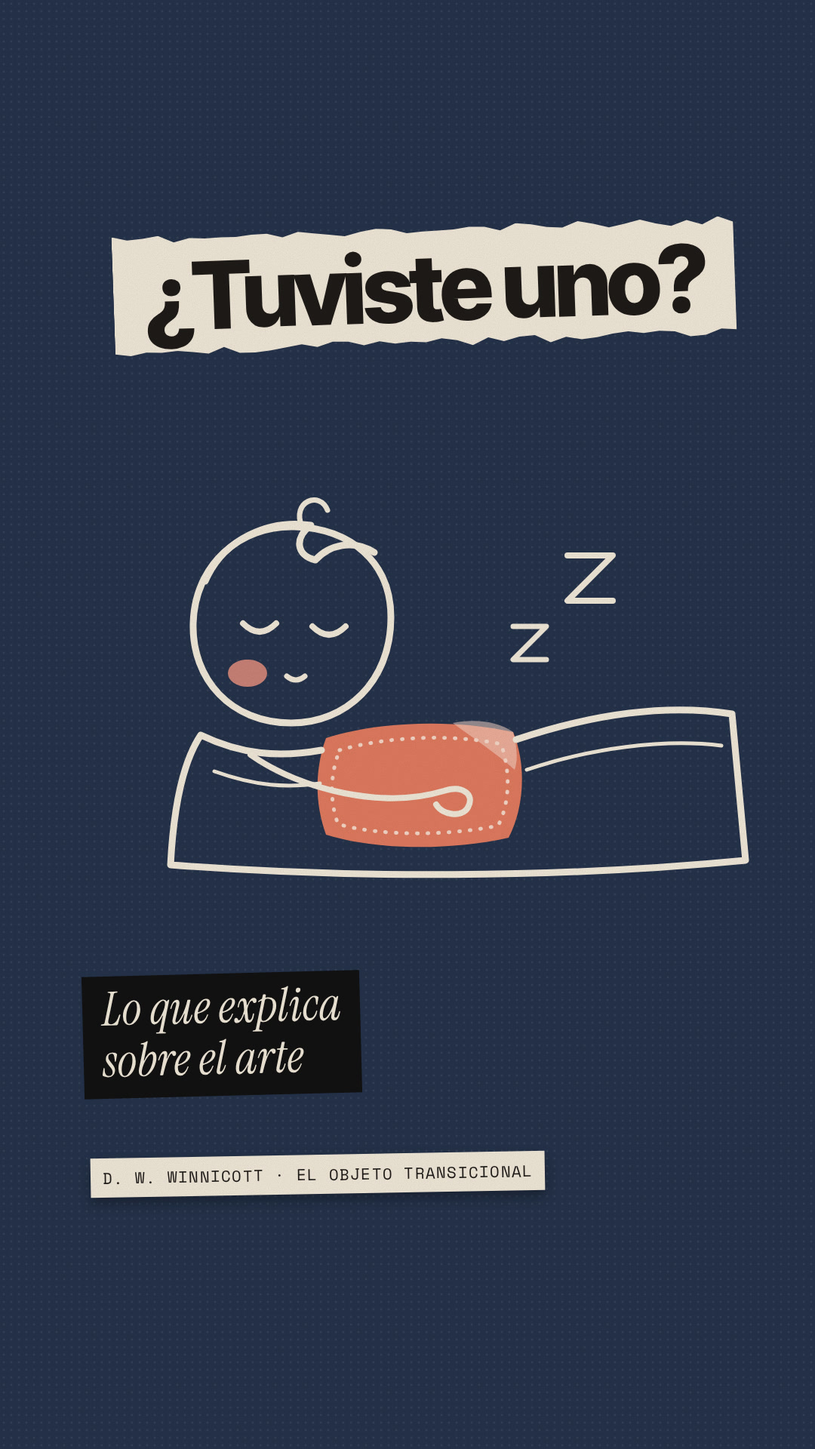
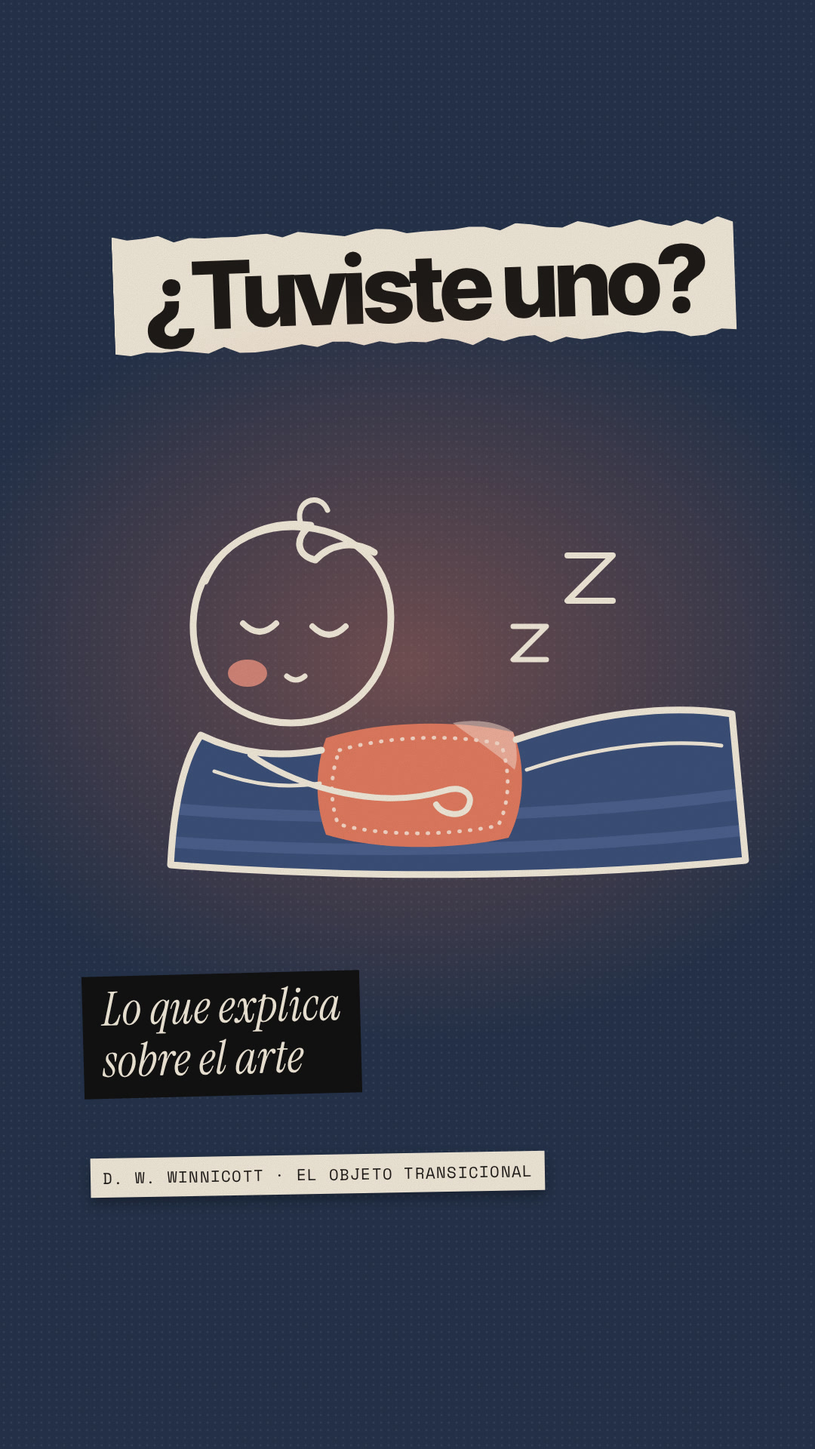
05: más llenas las escenas de línea (quietud: 0 vacíos), portada y storyboard
- La luz de un velador detrás del nene, frazada a rayas, fondo de guinga en el tramo de
  Cassatt, medallones con las caras, adentro dibujado y afuera filmado, cómoda de madera.
- MP4 final: 86,3 s, 29,2 MB (2,55 Mbps); cotejar y quietud sin observaciones.

Claude-Session: https://claude.ai/code/session_014ALApHG8hUWvBvb5xsLDbW

Changed region(s): [[0.0917, 0.2812, 0.9167, 0.6562]]

diff --git a/videos/05-trapito/video.html b/videos/05-trapito/video.html
@@ -18,6 +18,8 @@
     --trapo2: #F6D7C8;
     --fondo: var(--noche);
     --hueco: var(--tinta);
+    --manta: #3B4F78;   /* la frazada del dibujo, un azul más claro que el fondo */
+    --manta2: #4A5F8C;
   }
   html, body { margin: 0; background: #000; }
   #video { background: var(--noche); }
@@ -29,7 +31,9 @@
   .capa { inset: 0; width: 1080px; height: 1920px; overflow: visible; pointer-events: none; }
   .sub { left: 80px; right: 150px; top: 1460px; font-weight: 600; font-size: 36px; line-height: 1.5; color: var(--crema); z-index: 40; }
   .sub span { background: rgba(20,18,16,.88); padding: 3px 12px; -webkit-box-decoration-break: clone; box-decoration-break: clone; }
-  .papel { --linea: var(--tinta); --fondo: var(--crema); --trapo2: #F6D7C8; }
+  .papel { --linea: var(--tinta); --fondo: var(--crema); --trapo2: #F6D7C8; --manta: #CBD5DE; --manta2: #B7C4D0; --madera: #DCC9A6; }
+  .medallon { border-radius: 50%; background-repeat: no-repeat; }
+  #e5 .rotulo { paint-order: stroke; stroke: var(--tinta); stroke-width: 10px; stroke-linejoin: round; }
   .etiqueta { font-family: 'Instrument Serif', serif; font-style: italic; font-size: 54px; line-height: 1; color: var(--crema);
     background: var(--tinta); padding: 8px 20px 14px; white-space: nowrap; }
   .cinta { left: -120px; width: 1320px; overflow: hidden; white-space: nowrap; background: var(--crema); color: var(--tinta);
@@ -48,6 +52,7 @@
 
   <!-- 1 y 2 · GANCHO Y PROMESA: el nene dormido se dibuja solo; después se achica y del trapito sale un hilo hasta un cuadro -->
   <div class="escena" id="e1">
+    <div id="velador" style="left:-100px;top:300px;width:1280px;height:1000px;background:radial-gradient(closest-side, rgba(224,122,95,.42), rgba(224,122,95,0))"></div>
     <svg id="nene1" viewBox="0 0 1000 760" style="left:40px;top:420px;width:1000px;height:760px;overflow:visible"></svg>
     <div class="tira titular" id="tuviste" data-rasgado data-rot="-2" style="top:300px;left:170px;font-size:118px;white-space:nowrap">¿Tuviste uno?</div>
     <div class="lamina" id="lamK1" data-rot="2" style="top:300px;left:560px;width:430px;height:570px"><div class="plate" id="pK1"></div></div>
@@ -75,9 +80,10 @@
 
   <!-- 4 · PARA QUÉ SIRVE: Cassatt; el bebé y la mamá, dos círculos que se separan; el trapito en el medio -->
   <div class="escena" id="e4">
-    <div class="fondo" style="background:var(--salvia)"><div class="puntos" style="position:absolute;inset:0"></div></div>
-    <div class="lamina" id="lamCas" data-rot="-1" style="top:330px;left:60px;width:960px;height:780px"><div class="plate" id="pCas"></div></div>
+    <div class="fondo" style="background-color:var(--salvia);background-image:repeating-linear-gradient(90deg, rgba(40,70,45,.2) 0 44px, transparent 44px 132px), repeating-linear-gradient(0deg, rgba(40,70,45,.2) 0 44px, transparent 44px 132px)"></div>
+    <div class="lamina" id="lamCas" data-rot="0" style="top:330px;left:60px;width:960px;height:780px"><div class="plate" id="pCas"></div></div>
     <div class="ficha" id="fCas" data-rot="1" style="top:1135px;left:90px;font-size:18px">Mary Cassatt · Desayuno en la cama, 1897</div>
+    <div class="medallon" id="medB"></div><div class="medallon" id="medM"></div>
     <svg class="capa" id="capa4" viewBox="0 0 1080 1920" stroke-linecap="round">
       <g id="aros4" fill="none">
         <circle id="cB" class="circulo"/><circle id="cM" class="circulo"/>
@@ -87,18 +93,21 @@
       <path id="hM" fill="none" stroke="var(--coral)" stroke-width="7"/>
       <text id="tB" class="rotulo">bebé</text><text id="tM" class="rotulo">mamá</text>
     </svg>
-    <div id="trapo4c" style="left:450px;top:808px;width:160px;height:148px"><svg id="trapo4" viewBox="0 0 260 240" style="width:160px;height:148px;overflow:visible"></svg></div>
-    <div class="etiqueta" id="suyo" data-rot="-2" style="top:1030px;left:70px">suyo, sin ser él</div>
-    <div class="etiqueta" id="conElla" data-rot="2" style="top:1115px;left:440px">con ella, sin ser ella</div>
-    <div class="tira titular" id="objTr" data-rasgado data-rot="-2" style="top:1220px;left:80px;font-size:94px;white-space:nowrap">objeto transicional</div>
-    <div class="ficha" id="fObj" data-rot="1" style="top:1370px;left:430px;font-size:18px">Winnicott, «Objetos transicionales<br>y fenómenos transicionales», 1951</div>
+    <div id="trapo4c" style="left:433px;top:736px;width:160px;height:148px"><svg id="trapo4" viewBox="0 0 260 240" style="width:160px;height:148px;overflow:visible"></svg></div>
+    <div class="etiqueta" id="suyo" data-rot="-2" style="top:790px;left:60px">suyo, sin ser él</div>
+    <div class="etiqueta" id="conElla" data-rot="2" style="top:650px;left:470px">con ella, sin ser ella</div>
+    <div class="tira titular" id="objTr" data-rasgado data-rot="-2" style="top:1255px;left:70px;font-size:94px;white-space:nowrap">objeto transicional</div>
+    <div class="ficha" id="fObj" data-rot="1" style="top:1150px;left:70px;font-size:18px">Winnicott, «Objetos transicionales<br>y fenómenos transicionales», 1951</div>
   </div>
 
   <!-- 5 · LA TAREA QUE NUNCA TERMINA: adentro y afuera tiran; el hilo vibra; aparece un lugar donde descansar -->
   <div class="escena" id="e5">
     <div class="fondo" style="background:var(--noche)"><div class="puntos" style="position:absolute;inset:0"></div></div>
+    <svg class="capa" id="capa5b" viewBox="0 0 1080 1920"><ellipse id="zona" fill="var(--coral)" opacity=".9"/>
+    </svg>
+    <div class="medallon papel" id="discoA" style="overflow:hidden;background:var(--crema)"><svg id="nene5" viewBox="0 0 1000 760" style="position:absolute;overflow:visible"></svg></div>
+    <div class="medallon" id="discoF" style="overflow:hidden"><canvas id="cine5" width="400" height="400" style="width:100%;height:100%"></canvas></div>
     <svg class="capa" id="capa5" viewBox="0 0 1080 1920" stroke-linecap="round">
-      <ellipse id="zona" fill="var(--coral)" opacity=".9"/>
       <circle id="cA" class="circulo"/><circle id="cF" class="circulo"/>
       <text id="tA" class="rotulo">adentro</text><text id="tF" class="rotulo">afuera</text>
       <path id="hA" fill="none" stroke="var(--coral)" stroke-width="7"/>
@@ -106,7 +115,7 @@
       <path id="brazoI" fill="none" stroke="var(--crema)" stroke-width="9"/>
       <path id="brazoD" fill="none" stroke="var(--crema)" stroke-width="9"/>
     </svg>
-    <svg id="pie" viewBox="0 0 400 600" style="left:340px;top:640px;width:400px;height:600px;overflow:visible"></svg>
+    <svg id="pie" viewBox="0 0 400 600" style="left:340px;top:800px;width:400px;height:600px;overflow:visible"></svg>
     <div class="cinta" id="cinta5" data-rot="-4" style="top:300px"><span></span></div>
     <div class="ficha" id="fAcept" data-rot="-1" style="top:450px;left:70px;font-size:26px">Aceptar la realidad es</div>
   </div>
@@ -114,9 +123,9 @@
   <!-- 6 · DE BEBÉS, EL TRAPITO; EL CAJÓN; SE EXTIENDE: JUEGO Y CULTURA -->
   <div class="escena papel" id="e6">
     <div class="fondo" style="background:var(--crema)"><div class="puntos" style="position:absolute;inset:0;background-image:radial-gradient(rgba(0,0,0,.06) 1.3px, transparent 1.7px)"></div></div>
-    <svg id="nene6" viewBox="0 0 1000 760" style="left:140px;top:300px;width:800px;height:608px;overflow:visible"></svg>
+    <svg id="nene6" viewBox="0 0 1000 760" style="left:40px;top:220px;width:1000px;height:760px;overflow:visible"></svg>
     <svg id="comoda" viewBox="0 0 600 600" style="left:240px;top:820px;width:600px;height:600px;overflow:visible"></svg>
-    <div id="vuelo" style="inset:0"><svg id="trapo6" viewBox="0 0 1000 760" style="position:absolute;left:140px;top:300px;width:800px;height:608px;overflow:visible"></svg></div>
+    <div id="vuelo" style="inset:0"><svg id="trapo6" viewBox="0 0 1000 760" style="position:absolute;left:40px;top:220px;width:1000px;height:760px;overflow:visible"></svg></div>
     <div id="zona6" style="inset:0;background:var(--coral)"></div>
     <div class="plate" id="pJue" style="inset:0"></div>
     <div class="lamina" id="lamN" data-rot="-3" style="top:280px;left:40px;width:440px;height:270px"><div class="plate" data-img="nighthawks" data-crop="0,0,3840,2095"></div></div>
@@ -146,7 +155,8 @@
   <!-- 8 · CIERRE: de grande, la misma pose; la canción; la cinta se frena -->
   <div class="escena" id="e8">
     <div class="fondo" style="background:var(--noche)"><div class="puntos" style="position:absolute;inset:0"></div></div>
-    <div id="brillo" style="left:-60px;top:560px;width:1000px;height:700px;background:radial-gradient(closest-side, rgba(224,122,95,.55), rgba(224,122,95,0))"></div>
+    <div id="velador8" style="left:-100px;top:300px;width:1280px;height:1000px;background:radial-gradient(closest-side, rgba(224,122,95,.42), rgba(224,122,95,0))"></div>
+    <div id="brillo" style="left:-60px;top:560px;width:1000px;height:700px;background:radial-gradient(closest-side, rgba(224,122,95,.45), rgba(224,122,95,0))"></div>
     <svg id="trapo8" viewBox="0 0 1000 760" style="left:40px;top:420px;width:1000px;height:760px;overflow:visible"></svg>
     <svg id="grande" viewBox="0 0 1000 760" style="left:40px;top:420px;width:1000px;height:760px;overflow:visible"></svg>
     <svg class="capa" id="notas" viewBox="0 0 1080 1920" fill="var(--coral)"></svg>
@@ -177,6 +187,8 @@ const IMGS = {
 const CUADROS = Array.from({ length: 132 }, (_, i) => { const im = new Image(); im.src = `assets/repas/${String(i + 1).padStart(3, '0')}.jpg`; return im; });
 // Encuadres (px del original). Los "a sangre" tienen la proporción de la pantalla (0,5625).
 const KH = { mujer1: [780, 330, 440, 587], piano: [0, 0, 700, 1244], mujer: [620, 0, 700, 1244], cerca: [640, 60, 660, 1173] };
+// Las caras de Desayuno en la cama (px del original de 1280)
+const CARA = { bebe: [493, 213], mama: [753, 307] };
 const JU = { centro: [1500, 700, 1100, 1100], mas: [1100, 500, 1700, 1700] };
 
 const $ = id => document.getElementById(id);
@@ -249,6 +261,10 @@ function seek(tReal) {
     n.style.transformOrigin = '515px 540px';
     n.style.transform = `translate(${lerp(0, -255, pe)}px, ${lerp(0, 230, pe)}px) scale(${lerp(1, 0.6, pe) * resp})`;
     n.style.opacity = 1 - prog(t, T.e3, T.e3 + 0.5);
+    // el velador acompaña al nene (mismo punto fijo: el trapito, en 555, 960 de la pantalla)
+    $('velador').style.transformOrigin = '655px 660px';
+    $('velador').style.transform = n.style.transform;
+    $('velador').style.opacity = n.style.opacity;
     pieza($('tuviste'), t, { t0: T.dormir - 0.05, t1: T.e2 + 0.2, sale: 'fundido' });
     // la etiqueta de museo cuelga del trapito: se lo tomó en serio
     const [qx, qy] = vbA(n, 600, 600);
@@ -261,7 +277,7 @@ function seek(tReal) {
     hilo($('hilo1'), [ax, ay], [596, 862], { comba: 70, p: ease.inOut(prog(t, T.penso + 0.3, T.arte + 0.1)), amp: 4 * prog(t, T.arte, T.arte + 0.3), t });
     $('hilo1').style.opacity = 1 - prog(t, T.e3, T.e3 + 0.4);
     encuadre($('pK1'), IMGS.khnopff, KH.mujer1);
-    pieza($('lamK1'), t, { t0: T.necesitamos - 0.1, dur: 0.5, t1: T.e3, sale: 'fundido' });
+    pieza($('lamK1'), t, { t0: T.penso, dur: 0.5, t1: T.e3, sale: 'fundido' });
   }
 
   t = tReal;
@@ -288,31 +304,45 @@ function seek(tReal) {
     // la escena sube como una frazada que se tiende
     const pe = ease.inOut(prog(t, T.e4, T.e4 + 0.7));
     $('e4').style.clipPath = pe >= 1 ? 'none' : `inset(${lerp(100, 0, pe)}% 0 0 0)`;
-    encuadre($('pCas'), IMGS.cassatt, entreEncuadres([0, 0, 1280, 1017], [120, 0, 1100, 874], ease.suave(prog(t, T.e4, T.descubre))));
+    const cCas = entreEncuadres([0, 0, 1280, 1017], [120, 0, 1100, 874], ease.suave(prog(t, T.e4, T.descubre)));
+    encuadre($('pCas'), IMGS.cassatt, cCas);
     pieza($('fCas'), t, { t0: T.e4 + 0.8, entra: 'fundido', t1: T.descubre - 0.1 });
-    const pd = ease.inOut(prog(t, T.descubre - 0.1, T.descubre + 0.9));
+    const pd = ease.inOut(prog(t, T.descubre, T.descubre + 0.9));
     $('lamCas').style.opacity = 1 - pd;
-    $('lamCas').style.transform = `translateY(${pd * 120}px) rotate(${lerp(-1, 3, pd)}deg)`;
-    // los dos círculos: primero sobre las caras de Cassatt, casi encimados; después se separan
+    $('lamCas').style.transform = `translateY(${pd * 160}px) rotate(${lerp(0, 4, pd)}deg)`;
+    // las caras en la pantalla, según el encuadre de la lámina (plato de 928×748 en 76, 346)
+    const kc = Math.max(928 / cCas[2], 748 / cCas[3]);
+    const enLamina = ([fx, fy]) => [76 + (fx - cCas[0]) * kc + (928 - cCas[2] * kc) / 2, 346 + (fy - cCas[1]) * kc + (748 - cCas[3] * kc) / 2];
+    // los dos círculos: primero sobre las caras, casi encimados; se llevan las caras y se separan en diagonal
     const sep = ease.inOut(prog(t, T.descubre + 0.3, T.descubre + 1.6));
     const ida = ease.in(prog(t, T.va, T.va + 0.4)), vuelta = ease.out(prog(t, T.vuelve, T.vuelve + 0.6));
     const resp = Math.sin(t * 2.2) * 2;
-    const B = [lerp(318, 230, sep), lerp(452, 880, sep), lerp(108, 95, sep) + resp];
-    const M = [lerp(454, 850, sep) + 520 * ida * (1 - vuelta), lerp(490, 880, sep), lerp(150, 125, sep) - resp];
+    const cb = enLamina(CARA.bebe), cm = enLamina(CARA.mama);
+    const B = [lerp(cb[0], 260, sep), lerp(cb[1], 590, sep), lerp(100, 140, sep) + resp];
+    const M = [lerp(cm[0], 800, sep) + 480 * ida * (1 - vuelta), lerp(cm[1], 1040, sep) + 300 * ida * (1 - vuelta), lerp(118, 170, sep) - resp];
     const pB = prog(t, T.bebe - 0.1, T.bebe + 0.6), pM = prog(t, T.mama - 0.15, T.mama + 0.55);
     for (const [c, [x, y, r], p] of [['cB', B, pB], ['cM', M, pM]]) {
       const el = $(c); el.setAttribute('cx', x); el.setAttribute('cy', y); el.setAttribute('r', r); el.setAttribute('pathLength', 1);
       trazo(el, ease.inOut(p));
     }
+    // cada medallón lleva su cara: al principio calza justo con la pintura; después crece con su círculo
+    for (const [id, [x, y, r], cara, r0] of [['medB', B, CARA.bebe, 100], ['medM', M, CARA.mama, 118]]) {
+      const el = $(id), km = kc * r / r0;
+      Object.assign(el.style, { left: `${x - r}px`, top: `${y - r}px`, width: `${2 * r}px`, height: `${2 * r}px`,
+        backgroundImage: `url(${IMGS.cassatt.src})`, backgroundSize: `${1280 * km}px ${1017 * km}px`,
+        backgroundPosition: `${r - cara[0] * km}px ${r - cara[1] * km}px`, opacity: prog(t, T.descubre - 0.3, T.descubre) });
+    }
     $('tB').setAttribute('x', B[0]); $('tB').setAttribute('y', B[1] - B[2] - 22);
     $('tM').setAttribute('x', M[0]); $('tM').setAttribute('y', M[1] - M[2] - 22);
     aparecer($('tB'), t, T.descubre + 0.8, T.e5);
     aparecer($('tM'), t, T.descubre + 1.0, T.e5);
-    // el trapito cae en el hueco; los dos hilos
+    // el trapito cae en el hueco; un hilo a cada lado, de borde a borde
     dibujo($('trapo4'), 1);
     pieza($('trapo4c'), t, { t0: T.trapito + 0.1, t1: T.e5 + 0.1, sale: 'fundido' });
-    hilo($('hB'), [B[0] + B[2], B[1]], [462, 880], { p: ease.inOut(prog(t, T.suyo - 0.3, T.suyo + 0.4)), comba: 18, amp: 2, t });
-    hilo($('hM'), [598, 880], [M[0] - M[2], M[1]], { p: ease.inOut(prog(t, T.conElla - 0.3, T.conElla + 0.4)), comba: 18, amp: 2, t: t + 0.4 });
+    const TR = [513, 810];
+    const borde = ([x, y, r], [tx, ty], k) => { const d = Math.hypot(tx - x, ty - y); return [x + (tx - x) * k / d, y + (ty - y) * k / d]; };
+    hilo($('hB'), borde(B, TR, B[2]), borde([...TR, 0], [B[0], B[1]], 82), { p: ease.inOut(prog(t, T.suyo - 0.3, T.suyo + 0.4)), comba: 14, amp: 2, t });
+    hilo($('hM'), borde([...TR, 0], [M[0], M[1]], 82), borde(M, TR, M[2]), { p: ease.inOut(prog(t, T.conElla - 0.3, T.conElla + 0.4)), comba: 14, amp: 2, t: t + 0.4 });
     for (const h of ['hB', 'hM']) {
       $(h).style.opacity = 1 - prog(t, T.e5, T.e5 + 0.3);
       for (const k of ['d', 'style']) $(h + '2').setAttribute(k, $(h).getAttribute(k) || '');
@@ -325,31 +355,41 @@ function seek(tReal) {
 
   // 5 · La tarea que nunca termina
   if (t >= T.e5 && t < T.e6 + 0.8) {
-    iris($('e5'), prog(t, T.e5, T.e5 + 0.8), 540, 880);
-    // los círculos de antes pasan a ser adentro y afuera; en la tensión se alejan
+    iris($('e5'), prog(t, T.e5, T.e5 + 0.8), 540, 900);
+    // los círculos de antes pasan a ser adentro (coral) y afuera (la película: el mundo real, los otros); en la tensión
+    // se alejan
     const g = ease.inOut(prog(t, T.e5, T.e5 + 1.2));
     const ten = ease.inOut(prog(t, T.nadie, T.nadie + 1.2)) * (1 - ease.inOut(prog(t, T.necesitamos2, T.necesitamos2 + 1.2)));
-    const A = [lerp(230, 170, g) - 40 * ten, lerp(880, 920, g), lerp(95, 130, g)], F = [lerp(850, 910, g) + 40 * ten, lerp(880, 920, g), lerp(125, 130, g)];
+    const A = [lerp(260, 190, g) - 40 * ten, lerp(590, 700, g), lerp(140, 190, g)];
+    const F = [lerp(800, 890, g) + 40 * ten, lerp(1040, 700, g), lerp(170, 190, g)];
     for (const [c, [x, y, r]] of [['cA', A], ['cF', F]]) { $(c).setAttribute('cx', x); $(c).setAttribute('cy', y); $(c).setAttribute('r', r); }
-    $('tA').setAttribute('x', A[0]); $('tA').setAttribute('y', A[1] + 16); $('tF').setAttribute('x', F[0]); $('tF').setAttribute('y', F[1] + 16);
+    for (const [id, [x, y, r]] of [['discoA', A], ['discoF', F]])
+      Object.assign($(id).style, { left: `${x - r}px`, top: `${y - r}px`, width: `${2 * r}px`, height: `${2 * r}px` });
+    // adentro, dibujado (la imaginación); afuera, filmado (la realidad, los otros)
+    const n5 = $('nene5'), w5 = 2.3 * A[2];
+    Object.assign(n5.style, { width: `${w5}px`, height: `${w5 * 0.76}px`, left: `${A[2] - w5 * 0.5}px`, top: `${A[2] - w5 * 0.42}px` });
+    dibujo(n5, 1, { rellenos: [-1] });
+    cine($('cine5'), CUADROS, T.e5 + ((t - T.e5) % 10.9), T.e5, 12, [100, 20, 440, 440]);
+    $('tA').setAttribute('x', A[0]); $('tA').setAttribute('y', A[1] + A[2] + 60); $('tF').setAttribute('x', F[0]); $('tF').setAttribute('y', F[1] + F[2] + 60);
     aparecer($('tA'), t, T.adentro - 0.05); aparecer($('tF'), t, T.afuera - 0.05);
     // la personita en el medio, con un hilo en cada mano
     dibujo($('pie'), prog(t, T.e5 + 0.4, T.aceptar - 0.1));
     const temblor = Math.sin(t * 47) * 2.5 * ten;
     $('pie').style.transform = `translateX(${temblor}px)`;
     const baja = ease.inOut(prog(t, T.necesitamos2 + 0.2, T.necesitamos2 + 1.2));
-    const hI = [lerp(lerp(420, 400, ten), 476, baja) + temblor, lerp(910, 1000, baja)], hD = [lerp(lerp(660, 680, ten), 604, baja) + temblor, lerp(910, 1000, baja)];
+    const hI = [lerp(lerp(410, 395, ten), 476, baja) + temblor, lerp(920, 1110, baja)], hD = [lerp(lerp(670, 685, ten), 604, baja) + temblor, lerp(920, 1110, baja)];
     const pb = ease.inOut(prog(t, T.aceptar - 0.4, T.aceptar + 0.3));
-    $('brazoI').setAttribute('d', `M${512 + temblor} 840 L ${lerp(512, hI[0], pb)} ${lerp(840, hI[1], pb)}`);
-    $('brazoD').setAttribute('d', `M${568 + temblor} 840 L ${lerp(568, hD[0], pb)} ${lerp(840, hD[1], pb)}`);
+    $('brazoI').setAttribute('d', `M${512 + temblor} 1000 L ${lerp(512, hI[0], pb)} ${lerp(1000, hI[1], pb)}`);
+    $('brazoD').setAttribute('d', `M${568 + temblor} 1000 L ${lerp(568, hD[0], pb)} ${lerp(1000, hD[1], pb)}`);
     for (const b of ['brazoI', 'brazoD']) $(b).style.visibility = pb > 0 ? 'visible' : 'hidden';
     const ph = ease.inOut(prog(t, T.aceptar, T.aceptar + 0.8));
     const opts = { comba: lerp(4, 90, baja), amp: 11 * ten, t };
-    hilo($('hA'), hI, [A[0] + A[2], A[1]], { ...opts, p: ph });
-    hilo($('hF'), hD, [F[0] - F[2], F[1]], { ...opts, p: ph, t: t + 0.13 });
+    const alBorde = ([x, y, r], [hx, hy]) => { const d = Math.hypot(hx - x, hy - y); return [x + (hx - x) * r / d, y + (hy - y) * r / d]; };
+    hilo($('hA'), hI, alBorde(A, hI), { ...opts, p: ph });
+    hilo($('hF'), hD, alBorde(F, hD), { ...opts, p: ph, t: t + 0.13 });
     // el lugar donde descansar: una zona coral que crece detrás
     const z = ease.out(prog(t, T.necesitamos2 + 0.4, T.descansar + 0.6));
-    $('zona').setAttribute('cx', 540); $('zona').setAttribute('cy', 960);
+    $('zona').setAttribute('cx', 540); $('zona').setAttribute('cy', 1080);
     $('zona').setAttribute('rx', 260 * z); $('zona').setAttribute('ry', 330 * z);
     // la cinta sin fin
     pieza($('cinta5'), t, { t0: T.aceptar - 0.1, entra: 'der', dur: 0.6, t1: T.e6 - 0.2, sale: 'fundido' });
@@ -362,16 +402,16 @@ function seek(tReal) {
     iris($('e6'), prog(t, T.e6, T.e6 + 0.8), 540, 840);
     const n = $('nene6');
     const pd = t < T.anios ? prog(t, T.e6 + 0.2, T.e6 + 1.5) : 1 - prog(t, T.anios, T.anios + 0.7);
-    dibujo(n, ease.inOut(pd), { rellenos: [2] });
-    // el trapito suelto vuela al cajón
+    dibujo(n, ease.inOut(pd), { rellenos: [0.3, 0.7] });
+    // el trapito suelto (con su luz) vuela al cajón
     const tr = $('trapo6');
     dibujo(tr, 1, { rellenos: [-1] });
     const vu = ease.inOut(prog(t, T.cajon - 0.05, T.cajon + 0.55));
-    tr.style.transformOrigin = '420px 432px';  // el centro del trapito, en px del svg (800 de ancho)
-    tr.style.transform = `translate(${lerp(0, -12, vu)}px, ${lerp(0, 300, vu)}px) scale(${lerp(1, 0.55, vu)}) rotate(${lerp(0, 8, vu)}deg)`;
+    tr.style.transformOrigin = '515px 540px';  // el centro del trapito, en px del svg
+    tr.style.transform = `translate(${lerp(0, -15, vu)}px, ${lerp(0, 260, vu)}px) scale(${lerp(1, 0.55, vu)}) rotate(${lerp(0, 8, vu)}deg)`;
     // la cómoda se dibuja; el cajón se abre y se cierra
     const c = $('comoda');
-    dibujo(c, prog(t, T.anios + 0.1, T.cajon - 0.1), { rellenos: [2] });
+    dibujo(c, prog(t, T.anios + 0.1, T.cajon - 0.1), { rellenos: [0.6, 1] });
     const ab = ease.out(prog(t, T.cajon - 0.3, T.cajon)) * (1 - ease.inOut(prog(t, T.cajon + 0.55, T.cajon + 0.95)));
     const fr = c.querySelector('#frente');
     fr.style.transformOrigin = '300px 250px';
@@ -432,6 +472,7 @@ function seek(tReal) {
     }
     if ($('notas').innerHTML !== svg) $('notas').innerHTML = svg;
     aparecer($('brillo'), t, T.lugar - 0.2, T.nunca2 + 0.2, 1.0);
+    g.querySelector('.manta').style.opacity = 1 - ease.inOut(prog(t, T.nunca2 + 0.5, T.vuelta - 0.1));
     // mientras se borra, vuelve el trapito del principio, en el mismo lugar: así el loop empalma
     dibujo($('trapo8'), 1, { rellenos: [-1] });
     $('trapo8').style.opacity = ease.inOut(prog(t, T.nunca2 + 0.5, T.vuelta - 0.1));
@@ -446,15 +487,18 @@ function seek(tReal) {
 }
 
 // ───── Armado ─────
-$('nene1').innerHTML = D.nene; $('nene6').innerHTML = D.nene; $('grande').innerHTML = D.grande; $('pie').innerHTML = D.dePie;
+$('nene1').innerHTML = D.nene; $('nene6').innerHTML = D.nene; $('nene5').innerHTML = D.nene; $('grande').innerHTML = D.grande; $('pie').innerHTML = D.dePie;
 $('ob1').innerHTML = D.sabana; $('ob2').innerHTML = D.panuelo; $('ob3').innerHTML = D.muneco;
 $('comoda').innerHTML = D.comoda + D.cajon;
-// el trapito solo (para que vuele al cajón): solo sus rellenos
-$('trapo6').innerHTML = D.nene.replace(/<g class="trazos"[\s\S]*$/, '');
-$('trapo6').querySelector('.relleno').remove();  // sin el cachete
-$('nene6').querySelector('.rellenos').style.display = 'none';
+// el trapito solo (para que vuele al cajón, con su luz) y el trapito con la frazada (el final, que empalma con el principio)
+const piezas = sel => { const tpl = document.createElement('template'); tpl.innerHTML = `<svg>${D.nene}</svg>`;
+  return [...tpl.content.querySelectorAll(sel)].map(e => e.outerHTML).join(''); };
+$('trapo6').innerHTML = `<defs><radialGradient id="luzTrapo"><stop offset="0" stop-color="#E07A5F" stop-opacity=".5"/>` +
+  `<stop offset="1" stop-color="#E07A5F" stop-opacity="0"/></radialGradient></defs>` +
+  `<ellipse cx="515" cy="520" rx="520" ry="400" fill="url(#luzTrapo)"/><g class="rellenos">${piezas('.trapo')}</g>`;
+$('trapo8').innerHTML = `<g class="rellenos">${piezas('.manta, .trapo')}</g>`;
+$('nene6').querySelector('.trapo').style.display = 'none';
 $('trapo4').innerHTML = D.panuelo;
-$('trapo8').innerHTML = $('trapo6').innerHTML;
 for (const id of ['cinta5', 'cinta8']) $(id).firstElementChild.textContent = 'una tarea que nunca termina · '.repeat(6);
 encuadrar(document, IMGS);
 rasgar(document);

diff --git a/videos/05-trapito/dibujos.js b/videos/05-trapito/dibujos.js
@@ -11,10 +11,14 @@ const C = (d, w = 5) => `<path class="costura" d="${d}" fill="none" stroke="var(
 // punta que sube hasta el cachete (la que se frota).
 export const nene = `
 <g class="rellenos">
+  <path class="relleno manta" d="M226 474 C 280 500, 330 504, 386 494 L 644 480 C 740 448, 840 432, 930 446 L 948 640 C 700 664, 420 664, 186 646 C 190 570, 202 510, 226 474 Z" fill="var(--manta)"/>
+  <path class="relleno manta" d="M196 572 C 400 590, 700 584, 942 552 M192 616 C 420 632, 700 628, 946 600" fill="none" stroke="var(--manta2)" stroke-width="15"/>
   ${R('M262 392 a 26 18 0 1 0 52 0 a 26 18 0 1 0 -52 0', 'fill="#E8907F" opacity=".85" data-desde=".3"')}
+  <g class="trapo">
   ${R('M392 478 C 460 456, 560 452, 640 470 C 660 520, 652 576, 634 610 C 554 628, 456 626, 392 606 C 376 562, 378 516, 392 478 Z', 'fill="var(--trapo)"')}
   ${R('M560 458 C 590 452, 620 456, 640 470 C 646 492, 646 508, 642 520 C 620 500, 590 480, 560 458 Z', 'fill="var(--trapo2)" opacity=".55"')}
   ${C('M410 494 C 470 476, 560 472, 624 486 C 638 526, 634 568, 620 594 C 552 608, 464 608, 408 592 C 396 560, 398 524, 410 494 Z')}
+  </g>
 </g>
 <g class="trazos" fill="none" stroke="var(--linea)" stroke-linecap="round" stroke-linejoin="round">
   ${P('M478 318 C 478 404, 418 458, 346 458 C 266 458, 214 400, 216 326 C 218 248, 278 196, 350 198 C 426 200, 478 246, 478 318')}
@@ -32,6 +36,10 @@ export const nene = `
 
 // 8 · La misma pose, de grande: pelo corto, auriculares coral, la frazada más larga (viewBox 0 0 1000 760)
 export const grande = `
+<g class="manta">
+  <path d="M200 480 C 260 506, 340 508, 430 496 C 580 474, 760 446, 960 456 L 972 640 C 700 664, 420 664, 176 646 C 178 584, 184 520, 200 480 Z" fill="var(--manta)"/>
+  <path d="M184 572 C 400 590, 700 580, 966 552 M180 616 C 420 632, 700 626, 968 600" fill="none" stroke="var(--manta2)" stroke-width="15"/>
+</g>
 <g class="trazos" fill="none" stroke="var(--linea)" stroke-linecap="round" stroke-linejoin="round">
   ${P('M452 334 C 452 402, 404 446, 342 446 C 276 446, 230 400, 230 336 C 230 270, 280 224, 342 224 C 406 224, 452 270, 452 334')}
   ${P('M234 318 C 236 262, 282 228, 340 228 C 400 228, 448 262, 450 318 C 420 282, 384 270, 352 286 C 320 268, 266 280, 234 318', 7)}
@@ -97,6 +105,7 @@ export const muneco = `
 // 6 · La cómoda (viewBox 0 0 600 600). El cajón de arriba es aparte (#cajon) para abrirlo: cuando se abre baja y se agranda,
 // y arriba aparece su interior (#hueco).
 export const comoda = `
+<g class="rellenos">${R('M90 160 L 510 160 L 510 520 L 90 520 Z', 'fill="var(--madera)"')}</g>
 <g class="trazos" fill="none" stroke="var(--linea)" stroke-linecap="round" stroke-linejoin="round">
   ${P('M90 160 L 510 160 L 510 520 L 90 520 Z', 9)}
   ${P('M90 340 L 510 340 M270 430 L 330 430', 9)}
@@ -106,5 +115,5 @@ export const cajon = `
 <g fill="none" stroke="var(--linea)" stroke-linecap="round" stroke-linejoin="round" stroke-width="9">
   <path id="hueco" d="M96 166 L 504 166 L 504 330 L 96 330 Z" fill="var(--hueco)" stroke="none"/>
   <g id="dentro"></g>
-  <g id="frente"><path d="M90 160 L 510 160 L 510 340 L 90 340 Z" fill="var(--fondo)"/><path d="M270 250 L 330 250"/></g>
+  <g id="frente"><path d="M90 160 L 510 160 L 510 340 L 90 340 Z" fill="var(--madera)"/><path d="M270 250 L 330 250"/></g>
 </g>`;

diff --git a/videos/05-trapito/portada.html b/videos/05-trapito/portada.html
@@ -6,7 +6,7 @@
 <link rel="stylesheet" href="../../diseno/sistema.css">
 <style>
   :root { --noche: #24324A; --crema: #F1E8D8; --coral: #E07A5F; --tinta: #1D1A17;
-    --linea: var(--crema); --trapo: var(--coral); --trapo2: #F6D7C8; }
+    --linea: var(--crema); --trapo: var(--coral); --trapo2: #F6D7C8; --manta: #3B4F78; --manta2: #4A5F8C; }
   body { margin: 0; }
   #portada { background: var(--noche); }
 </style>
@@ -16,6 +16,7 @@
 <section class="frame" id="portada">
   <div class="puntos"></div>
   <div class="tira titular" data-rasgado style="top:300px;left:150px;font-size:124px;white-space:nowrap;transform:rotate(-2deg)">¿Tuviste uno?</div>
+  <div style="left:-100px;top:380px;width:1280px;height:1000px;background:radial-gradient(closest-side, rgba(224,122,95,.42), rgba(224,122,95,0))"></div>
   <svg id="nene" viewBox="0 0 1000 760" style="left:40px;top:500px;width:1000px;height:760px;overflow:visible"></svg>
   <div class="negro serif" style="top:1290px;left:110px;font-size:62px;line-height:1.1;transform:rotate(-1.5deg)">Lo que explica<br>sobre el arte</div>
   <div class="ficha" style="top:1530px;left:120px;transform:rotate(-1deg)">D. W. Winnicott · el objeto transicional</div>

diff --git a/videos/05-trapito/guion.md b/videos/05-trapito/guion.md
@@ -102,12 +102,12 @@ personita), coral `#E07A5F` (el trapito y lo que hace lo mismo), salvia `#8FA98B
 
 | # | Tramo | Imagen | Texto en pantalla |
 |---|---|---|---|
-| 1 | Gancho (0–5 s) | **Estreno: la personita.** El nene dormido, abrazado al trapito, se dibuja solo (`dibujo()`): al principio solo está el trapito. 1 s de silencio | "¿Tuviste uno?" |
+| 1 | Gancho (0–5 s) | **Estreno: la personita.** El nene dormido, abrazado al trapito, se dibuja solo (`dibujo()`): al principio solo están el trapito, la frazada a rayas y la luz de un velador. 1 s de silencio | "¿Tuviste uno?" |
 | 2 | Promesa (5–13 s) | El dibujo se achica; del trapito cuelga una etiqueta de museo; un hilo coral cruza la pantalla hasta un cuadro (Khnopff, que vuelve en el tramo 7) | ficha "objeto de estudio" |
 | 3 | Winnicott (13–25 s) | **Estreno: cine de archivo.** *El almuerzo del bebé* (Lumière, 1895) en una lámina, con parpadeo de proyector y la cámara que se acerca al bebé; los tres objetos se dibujan en fila | "Donald Winnicott" · ficha "pediatra y psicoanalista" · "Londres, 1923–1961" · "entre los 4 y los 12 meses" · ficha "Y las madres saben que no hay que lavarlo" · "¿Para qué sirve?" |
-| 4 | Para qué sirve (25–45 s) | *Desayuno en la cama* (Cassatt) sube como una frazada; dos círculos sobre las caras, casi encimados; la pintura se va y los círculos se separan; el de la mamá se va y vuelve; el trapito cae en el hueco; un hilo a cada lado | "bebé" · "mamá" · "suyo, sin ser él" · "con ella, sin ser ella" · "objeto transicional" |
-| 5 | La tarea que nunca termina (45–57 s) | Iris de cine mudo. Los mismos círculos pasan a ser adentro y afuera; la personita de pie, un hilo en cada mano. **Estreno: el hilo que vibra** (`hilo()`) en la tensión, y **la cinta sin fin** (`cinta()`): "una tarea que nunca termina" corre sin parar. En "descansar" crece una zona coral y los hilos se aflojan | ficha "Aceptar la realidad es" · "adentro" · "afuera" |
-| 6 | El trapito, el cajón, el juego y la cultura (57–67 s) | Papel claro: el nene vuelve, se borra y queda el trapito; se dibuja una cómoda, el cajón se abre, el trapito entra y se cierra. Del cajón crece la zona coral: adentro, *Juegos de niños* (Bruegel); después se llena de cuadros de los videos anteriores | "juego" · "cultura" |
+| 4 | Para qué sirve (25–45 s) | Fondo de frazada a cuadros (guinga). *Desayuno en la cama* (Cassatt) sube como una frazada; dos círculos sobre las caras, casi encimados; la pintura se va y cada círculo se lleva su cara (medallones); se separan en diagonal; el de la mamá se va y vuelve; el trapito cae en el hueco; un hilo a cada lado | "bebé" · "mamá" · "suyo, sin ser él" · "con ella, sin ser ella" · "objeto transicional" |
+| 5 | La tarea que nunca termina (45–57 s) | Iris de cine mudo. Los mismos círculos pasan a ser adentro (dibujado: el nene dormido, la imaginación) y afuera (filmado: la película de los Lumière, la realidad y los otros); la personita de pie, un hilo en cada mano. **Estreno: el hilo que vibra** (`hilo()`) en la tensión, y **la cinta sin fin** (`cinta()`): "una tarea que nunca termina" corre sin parar. En "descansar" crece una zona coral y los hilos se aflojan | ficha "Aceptar la realidad es" · "adentro" · "afuera" |
+| 6 | El trapito, el cajón, el juego y la cultura (57–67 s) | Papel claro: el nene vuelve con su luz, se borra y queda el trapito; se dibuja una cómoda, el cajón se abre, el trapito entra y se cierra. Del cajón crece la zona coral: adentro, *Juegos de niños* (Bruegel); después se llena de cuadros de los videos anteriores | "juego" · "cultura" |
 | 7 | La canción (67–78 s) | La portada de *Escenas de niños* (Schumann). Después *Escuchando a Schumann* (Khnopff) a sangre: la cámara va del piano (el que toca casi no se ve) a ella; un hilo coral entra desde afuera del cuadro. Cierra con un iris sobre ella | "viene de afuera" · "y es tuya" · ficha "la que escucha es su madre" |
 | 8 | Cierre (78–86 s) | La personita de grande, en la misma pose del nene; la cinta vuelve; en "ponés esa canción" aparecen los auriculares coral y suben notas; en "descansar" la cinta frena. Se borra y queda el trapito del principio: el loop empalma | — |
 
@@ -173,6 +173,10 @@ Fichas sobre las obras (verificadas en la web el 2 de octubre de 2026):
 - Pausas: 1 s después de la primera pregunta (para acordarse del suyo), 0,4 s después de "el arte.", 0,8 s después de
   "objeto transicional." (el concepto, solo), 0,6 s después de "descansar." y de "cultura.", 0,5 s después de "de quién es."
   y 1,5 s de cola, donde se borra la personita y vuelve el trapito del principio → `audio/voz-editada.wav` (86,3 s).
+- Revisión con `quietud.py` del primer render: 5 tramos "vacíos" (las líneas finas sobre un fondo liso ocupan menos del
+  18 % del cuadro; de 29 a 55 s, casi todo). Se llenó sin salir del estilo: la luz del velador detrás del nene, la frazada
+  a rayas, el fondo de guinga en el tramo de Cassatt, los medallones con las caras, los discos de adentro (dibujado) y
+  afuera (filmado), la cómoda de madera y el cuadro de Khnopff desde "lo que pensó". Segundo render: 0 vacíos, 0 quietos.
 - Animación: `video.html`, con los dibujos en `dibujos.js`. Efectos nuevos, ahora en `diseno/motor.js`: `dibujo()` (un dibujo
   de línea que se hace solo, trazo por trazo, y se borra al revés), `hilo()` (una cuerda que cuelga, se tiende y vibra),
   `cinta()` (texto que corre sin terminar nunca, y puede frenar) y `cine()` (una película cuadro por cuadro en un canvas).
@@ -189,9 +193,9 @@ python3 herramientas/cotejar.py videos/05-trapito/guion.md videos/05-trapito/aud
 # el clip de Lumière (480p de Commons) a cuadros
 ffmpeg -ss 11.5 -t 11 -i repas.webm -vf "fps=12,format=gray" -q:v 8 videos/05-trapito/assets/repas/%03d.jpg
 node herramientas/render.mjs videos/05-trapito/video.html --audio=videos/05-trapito/audio/voz-editada.wav --workers=4
-cd videos/05-trapito   # menos de 30 MB: 240 / 86,3 − 0,13 ≈ 2,65 Mbps de video
-ffmpeg -y -i out/video.mp4 -c:v libx264 -preset slow -b:v 2600k -pass 1 -passlogfile out/ffmpeg2pass -an -f mp4 /dev/null
-ffmpeg -y -i out/video.mp4 -c:v libx264 -preset slow -b:v 2600k -pass 2 -passlogfile out/ffmpeg2pass -pix_fmt yuv420p \
+cd videos/05-trapito   # menos de 30 MB: 240 / 86,3 − 0,13 ≈ 2,65 Mbps; con 2,55 queda en 29,2 MB
+ffmpeg -y -i out/video.mp4 -c:v libx264 -preset slow -b:v 2550k -pass 1 -passlogfile out/ffmpeg2pass -an -f mp4 /dev/null
+ffmpeg -y -i out/video.mp4 -c:v libx264 -preset slow -b:v 2550k -pass 2 -passlogfile out/ffmpeg2pass -pix_fmt yuv420p \
   -c:a aac -b:a 128k -movflags +faststart 05-trapito.mp4
 cd ../..
 python3 herramientas/quietud.py videos/05-trapito/05-trapito.mp4

diff --git a/docs/guia-visual.md b/docs/guia-visual.md
@@ -106,4 +106,4 @@ oscura); lo que cambia en cada video es el color, las composiciones y los efecto
 | 02 · Ícaro | noche `#15233A`, teal `#0F5E5A`, papel tibio `#E7D9C0`, amarillo `#E9C46A`, rojo | zoom logarítmico dentro del cuadro, aro que busca, flechas de mirada, papel rasgado que sube, conteo de porcentajes |
 | 03 · Narciso | estanque `#0E2420`, rosa Eco `#E5BDB3`, vino `#3E1820`, pétalo `#F2EEE4`, azafrán `#E8A33D` | obras a sangre con cámara, giro de 180°, **marea** (`marea()` en `motor.js`), **agua** (filtros SVG de desplazamiento), **eco tipográfico** sincronizado con el eco de la voz, citas palabra por palabra (`porPalabra()`), título reflejado, final que vuelve al primer cuadro |
 | 04 · Los embajadores | nogal `#16120E`, hueso `#ECE4D2`, lacre `#B8362C`, oro viejo `#C49A45`, pizarra `#232A31` | **anamorfosis animada** (`anamorfosis()`: el cuadro se comprime en la dirección de la mancha y la calavera se endereza), **desteñir** (`destenir()`: un paisaje se queda sin color de arriba hacia abajo), **tinta** (`tinta()`: citas escritas línea por línea), plano visto desde arriba, líneas de catálogo, pantalla partida, transiciones de costado, final que vuelve al primer cuadro |
-| 05 · El trapito | azul frazada `#24324A`, algodón `#F1E8D8`, coral `#E07A5F`, salvia `#8FA98B`, tinta `#1D1A17` | **la personita** (`dibujo()`: dibujos de línea que se hacen solos y se borran al revés, en `videos/05-trapito/dibujos.js`), **cine de archivo** (`cine()`: Lumière, 1895, cuadro por cuadro), **el hilo** (`hilo()`: cuelga, se tiende y vibra con la tensión), **la cinta sin fin** (`cinta()`: "una tarea que nunca termina" corre y frena), círculos que se separan, la frazada que sube, iris de cine mudo, un color (el coral) para todo lo que hace lo mismo que el trapito, final que vuelve al primer cuadro |
+| 05 · El trapito | azul frazada `#24324A`, algodón `#F1E8D8`, coral `#E07A5F`, salvia `#8FA98B`, tinta `#1D1A17` | **la personita** (`dibujo()`: dibujos de línea que se hacen solos y se borran al revés, en `videos/05-trapito/dibujos.js`), **cine de archivo** (`cine()`: Lumière, 1895, cuadro por cuadro), **el hilo** (`hilo()`: cuelga, se tiende y vibra con la tensión), **la cinta sin fin** (`cinta()`: "una tarea que nunca termina" corre y frena), círculos que se llevan las caras de la pintura (medallones), adentro dibujado y afuera filmado, fondo de guinga, la luz de un velador, la frazada que sube, iris de cine mudo, un color (el coral) para todo lo que hace lo mismo que el trapito, final que vuelve al primer cuadro |
